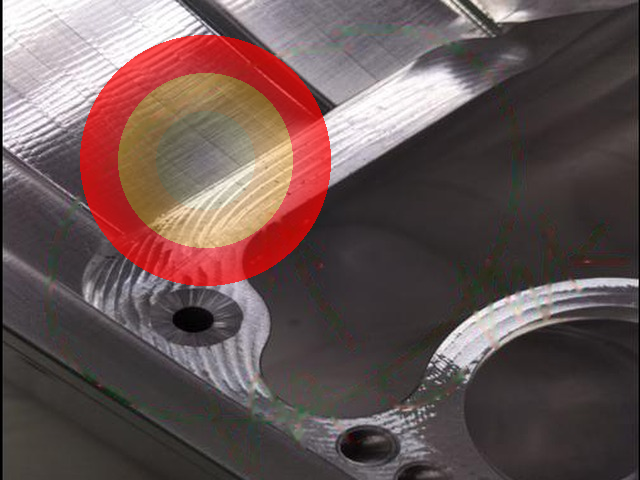
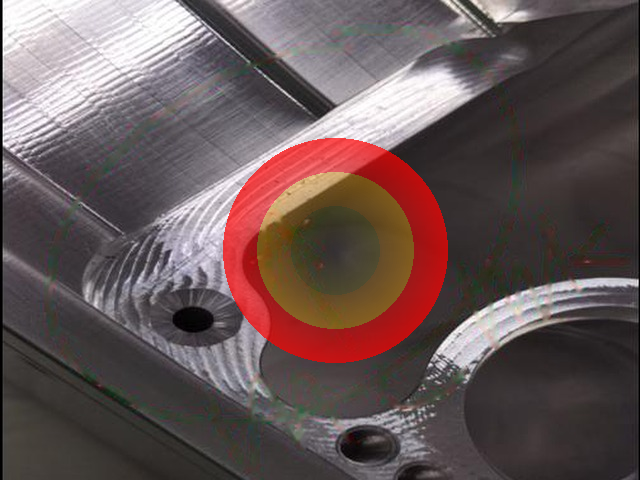
fix: correct all bounding box positions to match PDF defect locations
- Derived exact defect coordinates from red mark positions in original PDF
- Mathematically mapped original image coords to cropped 640x480 space
- Updated SCENARIO_RESULTS, KIOSK_RESULTS, and AI Lab curated bboxes
- Regenerated heatmap/golden_diff overlays at correct positions
- All 6 Lam scenarios now have accurate defect bounding boxes

Changed region(s): [[0.125, 0.0625, 0.7188, 0.7812]]

diff --git a/backend/app/services/ai_pipeline.py b/backend/app/services/ai_pipeline.py
@@ -145,7 +145,7 @@ SCENARIO_RESULTS: dict[str, dict] = {
         "findings": [
             {"class": "porosity", "approach": "model", "confidence": 0.93, "severity": "critical",
              "desc": "Subsurface material porosity exposed after machining — multiple voids (0.3-0.8mm) on sealing surface. Vacuum integrity compromised.",
-             "bbox": {"x": 280, "y": 180, "width": 100, "height": 80}},
+             "bbox": {"x": 216, "y": 201, "width": 224, "height": 168}},
         ],
     },
     "scenario-14": {
@@ -154,7 +154,7 @@ SCENARIO_RESULTS: dict[str, dict] = {
         "findings": [
             {"class": "tool_marks", "approach": "model", "confidence": 0.88, "severity": "major",
              "desc": "Visible machining lines and tool path marks — surface finish exceeds Ra 1.6μm tolerance. Rework required.",
-             "bbox": {"x": 200, "y": 200, "width": 240, "height": 80}},
+             "bbox": {"x": 223, "y": 166, "width": 224, "height": 168}},
         ],
     },
     "scenario-15": {
@@ -163,7 +163,7 @@ SCENARIO_RESULTS: dict[str, dict] = {
         "findings": [
             {"class": "coating_stain", "approach": "model", "confidence": 0.90, "severity": "major",
              "desc": "Visible stain marks on anodized surface — contamination during coating process. Cosmetic reject.",
-             "bbox": {"x": 250, "y": 180, "width": 140, "height": 120}},
+             "bbox": {"x": 220, "y": 160, "width": 200, "height": 160}},
         ],
     },
     "scenario-16": {
@@ -172,7 +172,7 @@ SCENARIO_RESULTS: dict[str, dict] = {
         "findings": [
             {"class": "label_mismatch", "approach": "rule", "confidence": 1.0, "severity": "critical",
              "desc": "Serial number mismatch: part engraving reads S/N 1034325-0326 but label shows S/N 1034325-0879. Traceability failure.",
-             "bbox": {"x": 180, "y": 220, "width": 280, "height": 60}},
+             "bbox": {"x": 272, "y": 145, "width": 84, "height": 168}},
         ],
     },
     "scenario-17": {
@@ -181,7 +181,7 @@ SCENARIO_RESULTS: dict[str, dict] = {
         "findings": [
             {"class": "burr", "approach": "model", "confidence": 0.92, "severity": "critical",
              "desc": "Machining burr detected on thread edge — raised material 0.4mm height. Particle generation risk in cleanroom environment.",
-             "bbox": {"x": 300, "y": 200, "width": 60, "height": 80}},
+             "bbox": {"x": 188, "y": 124, "width": 224, "height": 168}},
         ],
     },
     "scenario-18": {
@@ -190,7 +190,7 @@ SCENARIO_RESULTS: dict[str, dict] = {
         "findings": [
             {"class": "paint_peel", "approach": "anomaly", "confidence": 0.95, "severity": "critical",
              "desc": "Paint/coating delamination near mounting hole — 8mm² area of exposed bare aluminum substrate. Adhesion failure.",
-             "bbox": {"x": 340, "y": 160, "width": 80, "height": 80}},
+             "bbox": {"x": 268, "y": 354, "width": 119, "height": 126}},
         ],
     },
 }
@@ -296,7 +296,7 @@ KIOSK_RESULTS: dict[str, dict] = {
         "findings": [
             {"class": "porosity", "approach": "model", "confidence": 0.93, "severity": "critical",
              "desc": "Subsurface porosity exposed after machining — voids on sealing surface compromise vacuum integrity.",
-             "bbox": {"x": 280, "y": 180, "width": 100, "height": 80}},
+             "bbox": {"x": 216, "y": 201, "width": 224, "height": 168}},
         ],
     },
     "839-041322-004": {
@@ -306,7 +306,7 @@ KIOSK_RESULTS: dict[str, dict] = {
         "findings": [
             {"class": "tool_marks", "approach": "model", "confidence": 0.88, "severity": "major",
              "desc": "Visible machining lines — surface finish exceeds Ra 1.6μm tolerance.",
-             "bbox": {"x": 200, "y": 200, "width": 240, "height": 80}},
+             "bbox": {"x": 223, "y": 166, "width": 224, "height": 168}},
         ],
     },
     "839-055678-004": {
@@ -316,7 +316,7 @@ KIOSK_RESULTS: dict[str, dict] = {
         "findings": [
             {"class": "coating_stain", "approach": "model", "confidence": 0.90, "severity": "major",
              "desc": "Stain marks on anodized surface — contamination during coating process.",
-             "bbox": {"x": 250, "y": 180, "width": 140, "height": 120}},
+             "bbox": {"x": 220, "y": 160, "width": 200, "height": 160}},
         ],
     },
     "839-055678-005": {
@@ -326,7 +326,7 @@ KIOSK_RESULTS: dict[str, dict] = {
         "findings": [
             {"class": "label_mismatch", "approach": "rule", "confidence": 1.0, "severity": "critical",
              "desc": "Serial number mismatch: engraving vs label. Traceability failure.",
-             "bbox": {"x": 180, "y": 220, "width": 280, "height": 60}},
+             "bbox": {"x": 272, "y": 145, "width": 84, "height": 168}},
         ],
     },
     "715-098456-008": {
@@ -336,7 +336,7 @@ KIOSK_RESULTS: dict[str, dict] = {
         "findings": [
             {"class": "burr", "approach": "model", "confidence": 0.92, "severity": "critical",
              "desc": "Machining burr on thread edge — particle generation risk.",
-             "bbox": {"x": 300, "y": 200, "width": 60, "height": 80}},
+             "bbox": {"x": 188, "y": 124, "width": 224, "height": 168}},
         ],
     },
     "839-055678-006": {
@@ -346,7 +346,7 @@ KIOSK_RESULTS: dict[str, dict] = {
         "findings": [
             {"class": "paint_peel", "approach": "anomaly", "confidence": 0.95, "severity": "critical",
              "desc": "Paint/coating delamination near mounting hole — exposed bare substrate.",
-             "bbox": {"x": 340, "y": 160, "width": 80, "height": 80}},
+             "bbox": {"x": 268, "y": 354, "width": 119, "height": 126}},
         ],
     },
 }

diff --git a/backend/app/routers/ai.py b/backend/app/routers/ai.py
@@ -171,22 +171,22 @@ async def classify_all_scenarios():
 # Used as fallback when Vision LLM classification matches the expected defect class.
 _CURATED_BBOXES: dict[str, dict[str, dict]] = {
     "scenario-13": {
-        "porosity": {"x": 240, "y": 200, "width": 160, "height": 120},
+        "porosity": {"x": 216, "y": 201, "width": 224, "height": 168},
     },
     "scenario-14": {
-        "tool_marks": {"x": 80, "y": 60, "width": 250, "height": 200},
+        "tool_marks": {"x": 223, "y": 166, "width": 224, "height": 168},
     },
     "scenario-15": {
         "coating_stain": {"x": 220, "y": 160, "width": 200, "height": 160},
     },
     "scenario-16": {
-        "label_mismatch": {"x": 180, "y": 140, "width": 280, "height": 200},
+        "label_mismatch": {"x": 272, "y": 145, "width": 84, "height": 168},
     },
     "scenario-17": {
-        "burr": {"x": 260, "y": 120, "width": 120, "height": 160},
+        "burr": {"x": 188, "y": 124, "width": 224, "height": 168},
     },
     "scenario-18": {
-        "paint_peel": {"x": 300, "y": 240, "width": 100, "height": 100},
+        "paint_peel": {"x": 268, "y": 354, "width": 119, "height": 126},
     },
 }
 
